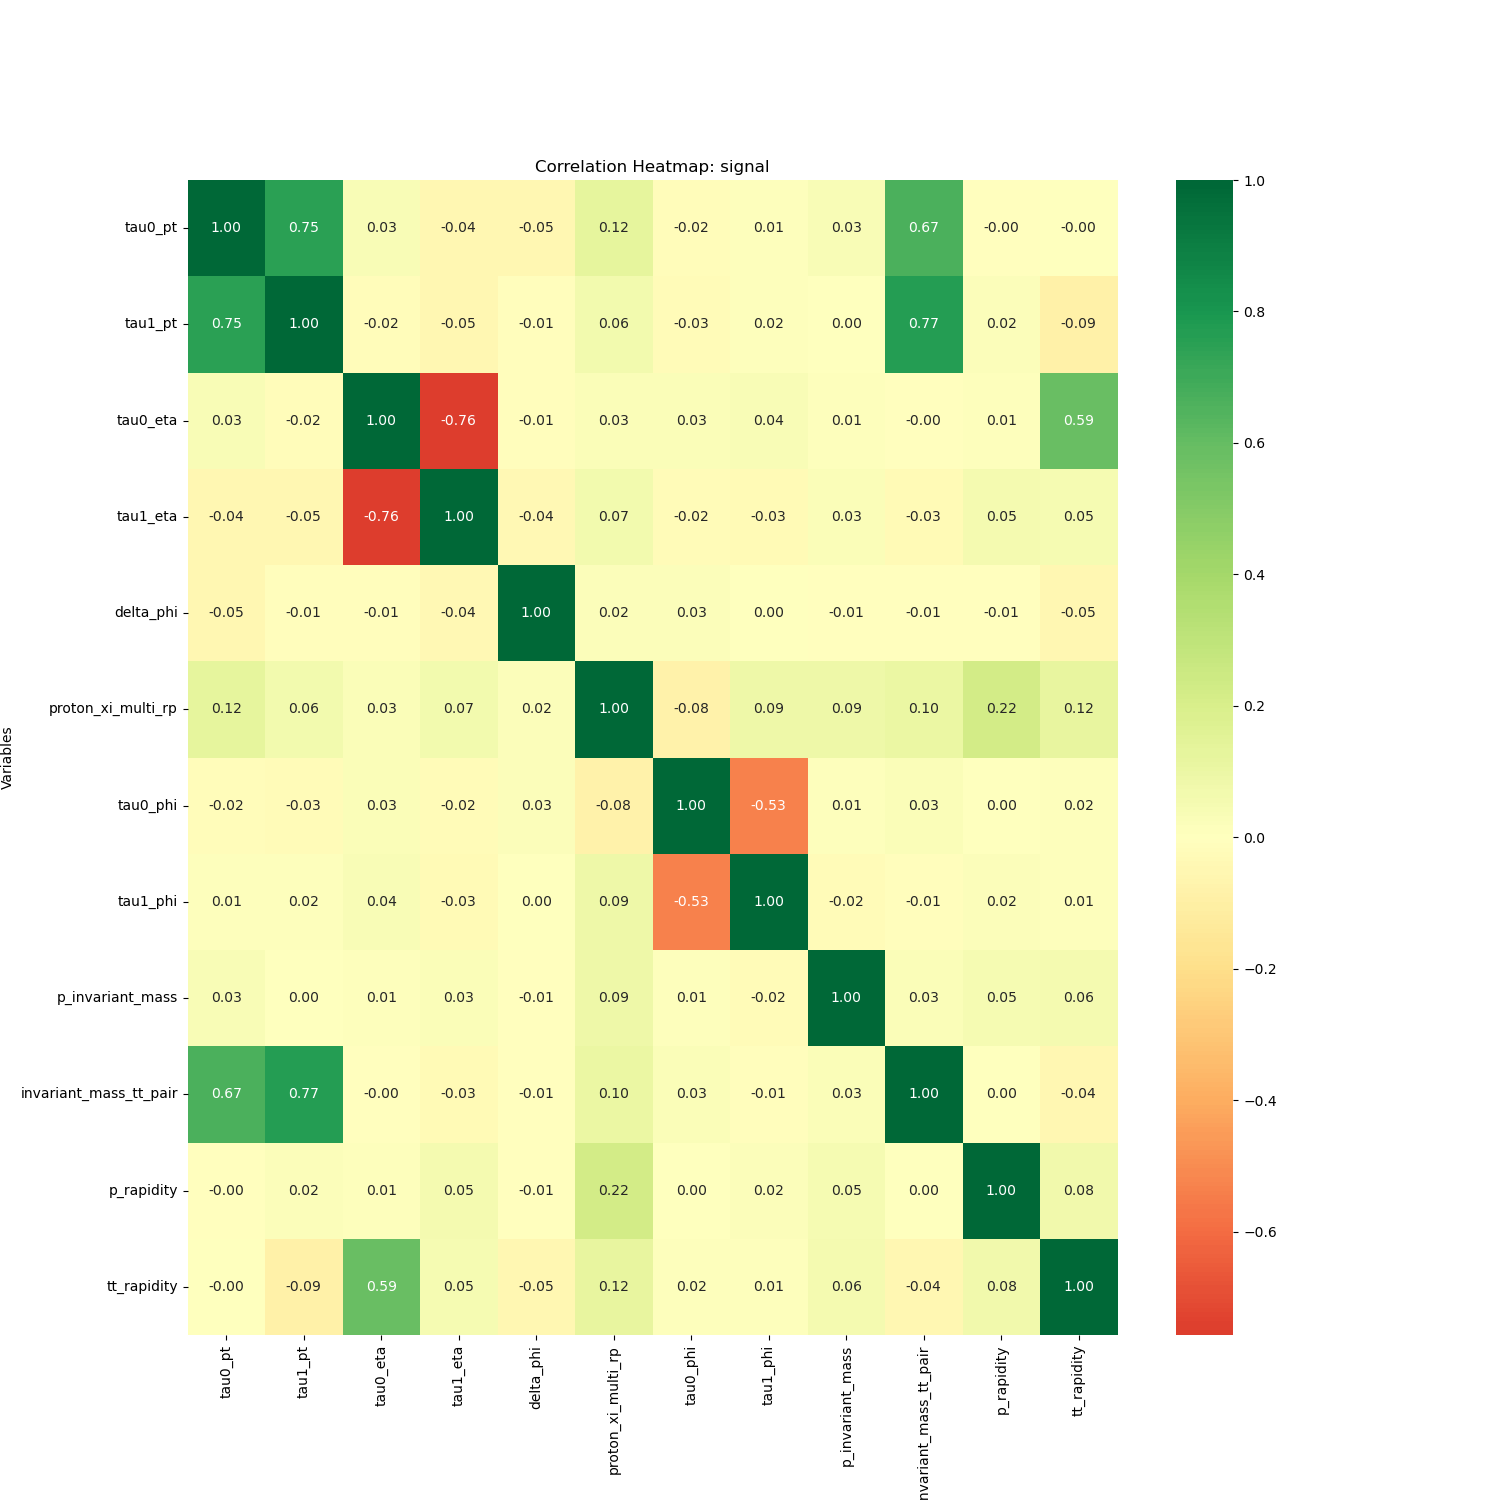
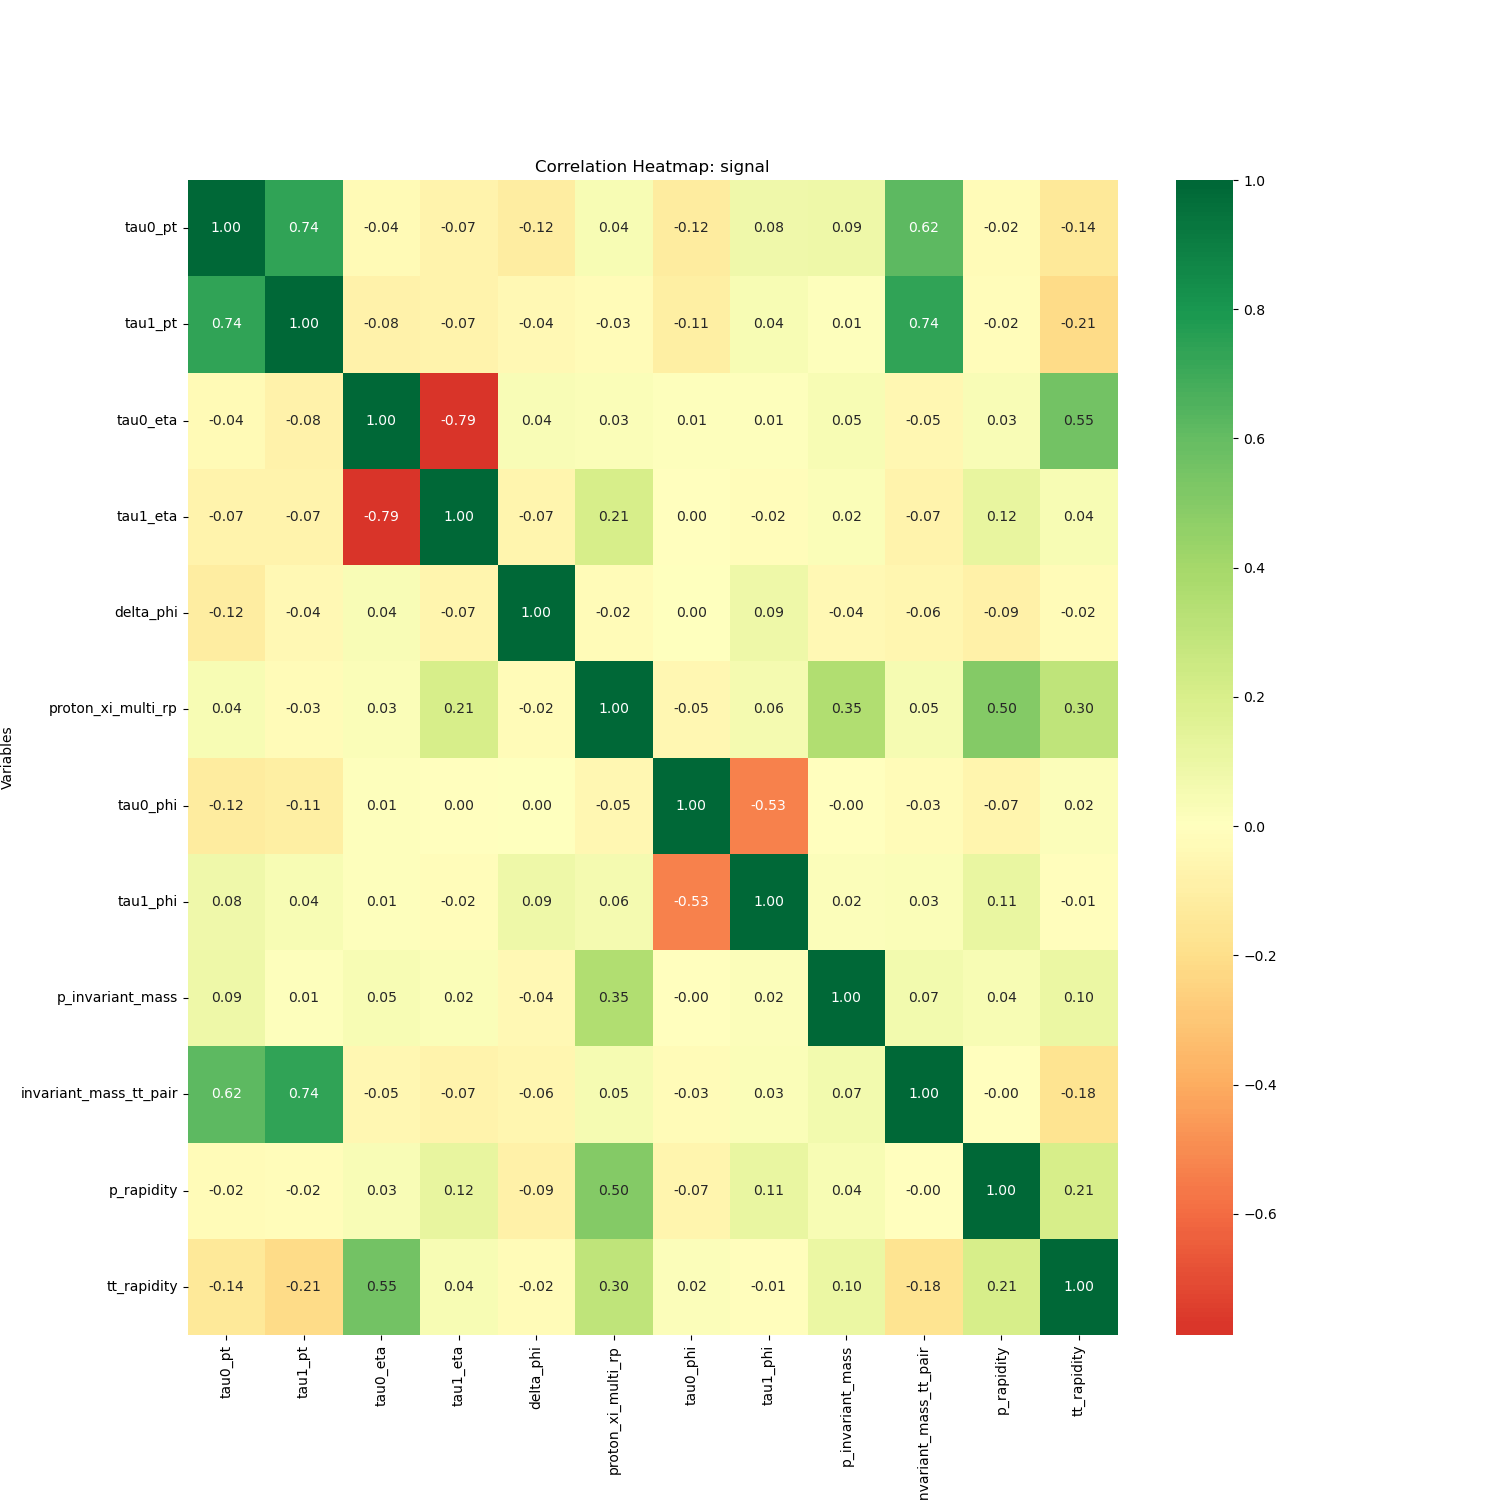
Fix correlation plots

diff --git a/plots/corrs_matrix.py b/plots/corrs_matrix.py
@@ -14,7 +14,7 @@ import seaborn as sns
 # filename="2018Data_passPreselection_passSPlotCuts_mergeSweights.root"
 
 dir="/eos/user/m/mblancco/samples_2018_tautau/fase0_2/"
-filename="ttJetscode_GammaGammaTauTau_SignalMC_SM_18UL_23k_NANOAODSIM_fase0_with_xi_and_deltaphi.root"
+filename="ttJetscode_GammaGammaTauTau_SignalMC_SM_18UL_23k_NANOAODSIM_fase0_no_pileups.root"
 #filename="ttJetscode_GammaGammaTauTau_SignalMC_SM_18UL_23k_NANOAODSIM_fase0_with_xi_and_deltaphi.root"
 #ilename2="MC_JPSI_2018_preBDT_Nov21.root"
 
@@ -71,7 +71,7 @@ def plot_heatmap(data_type):
     #remove error handling if it is not used
     while True:
         try:
-            plt.savefig(data_type+'_correlation_2.png')
+            plt.savefig(data_type+'_correlation_no_pileups.png')
             break
         except FileNotFoundError:
             print("bad name")
